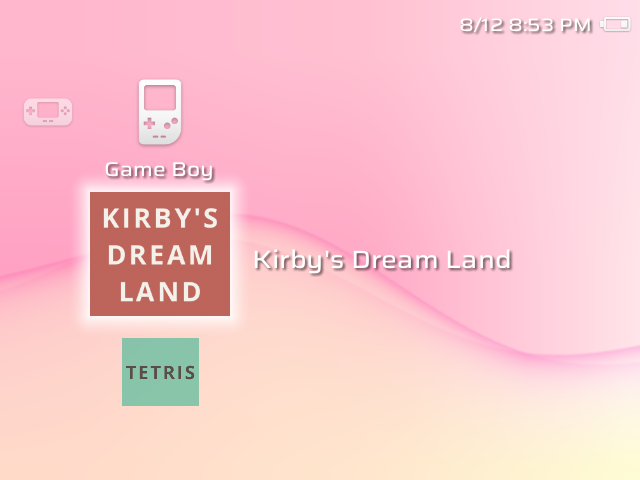
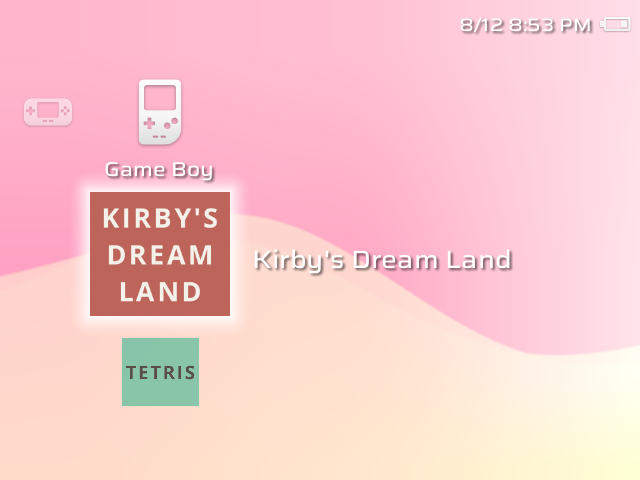
Original waves: cleaner Red and Pale Pink edges
Red: the dark band below the upper wave is gone and the colour is shared
more evenly between the two waves, so they no longer run together.
Pale Pink: the hard pink line under the wave is gone, as on the PSP.
Classic waves are unchanged.

Each Original colour can now also ask for a softer edge (unused by
default).

Claude-Session: https://claude.ai/code/session_01FsfKRD5qBANRaqUwDsRFL4

Changed region(s): [[0.375, 0.4375, 1.0, 0.8125], [0.0, 0.5312, 0.1562, 0.625]]

diff --git a/crates/slot-gfx/src/backdrop.rs b/crates/slot-gfx/src/backdrop.rs
@@ -51,8 +51,9 @@ pub struct Backdrop {
 }
 
 /// Original's edges, per colour: the glow trailing below the upper edge (rgb, then its length
-/// in pixels of a 480-line screen), the same below the lower edge, and how much of the sheet's
-/// colour the upper edge brings (the rest comes with the lower).
+/// in pixels of a 480-line screen), the same below the lower edge, then how much of the sheet's
+/// colour the upper edge brings (the rest comes with the lower) and how soft both edges are (half
+/// the width of their step, in the same pixels; 2 when zero).
 pub type BackdropEdges = [[f32; 4]; 3];
 
 /// The picture as it is: not squeezed, brightened or smoothed.
@@ -143,8 +144,10 @@ void main() {
         // Distances below the upper edge and below the lower one.
         float du = max(d1, d2);
         float dl = min(d1, d2);
-        float cu = smoothstep(-2.0 * k, 2.0 * k, du);
-        float cl = smoothstep(-2.0 * k, 2.0 * k, dl);
+        // Each edge is a soft step, two pixels either side unless the colour asks for more.
+        float soft = max(u_e[2].y, 2.0) * k;
+        float cu = smoothstep(-soft, soft, du);
+        float cl = smoothstep(-soft, soft, dl);
         // Two sheets: the upper edge brings part of the sheet's colour, the lower the rest.
         // Below each edge some colours trail a glow of their own.
         col = mix(ground, sheet, cl + u_e[2].x * (cu - cl));
@@ -251,8 +254,9 @@ fn shade_plain(
             ((v - em - 0.055) / (0.92 - em).max(0.05)).clamp(0.0, 1.0),
         );
         let (du, dl) = (d1.max(d2), d1.min(d2));
-        let cu = smoothstep(-2.0 * k, 2.0 * k, du);
-        let cl = smoothstep(-2.0 * k, 2.0 * k, dl);
+        let soft = e[2][1].max(2.0) * k;
+        let cu = smoothstep(-soft, soft, du);
+        let cl = smoothstep(-soft, soft, dl);
         let col = mix3(ground, sheet, cl + e[2][0] * (cu - cl));
         let gu = (-du.max(0.0) / (e[0][3] * k)).exp() * cu;
         let gl = (-dl.max(0.0) / (e[1][3] * k)).exp() * cl;

diff --git a/crates/slot-ui/src/xmb/palette.rs b/crates/slot-ui/src/xmb/palette.rs
@@ -546,7 +546,7 @@ pub const XMB_EDGES: [BackdropEdges; 34] = [
     // Lime
     [[0.065, 0.016, 0.015, 14.000], [-0.272, -0.075, -0.016, 64.000], [0.000, 0.000, 0.000, 0.000]],
     // Pale Pink
-    [[-0.002, -0.269, -0.074, 14.000], [-0.000, -0.065, -0.017, 64.000], [0.900, 0.000, 0.000, 0.000]],
+    [[0.000, 0.000, 0.000, 14.000], [0.000, 0.000, 0.000, 64.000], [0.900, 0.000, 0.000, 0.000]],
     // Forest
     [[0.141, 0.112, 0.044, 64.000], [-0.264, -0.283, -0.084, 64.000], [0.000, 0.000, 0.000, 0.000]],
     // Violet
@@ -562,5 +562,5 @@ pub const XMB_EDGES: [BackdropEdges; 34] = [
     // Brown
     [[-0.106, -0.043, -0.020, 64.000], [-0.144, -0.060, -0.011, 64.000], [0.400, 0.000, 0.000, 0.000]],
     // Red
-    [[-0.159, -0.140, 0.023, 40.000], [0.006, -0.004, 0.013, 4.000], [0.900, 0.000, 0.000, 0.000]],
+    [[0.000, 0.000, 0.000, 40.000], [0.006, -0.004, 0.013, 4.000], [0.450, 0.000, 0.000, 0.000]],
 ];
